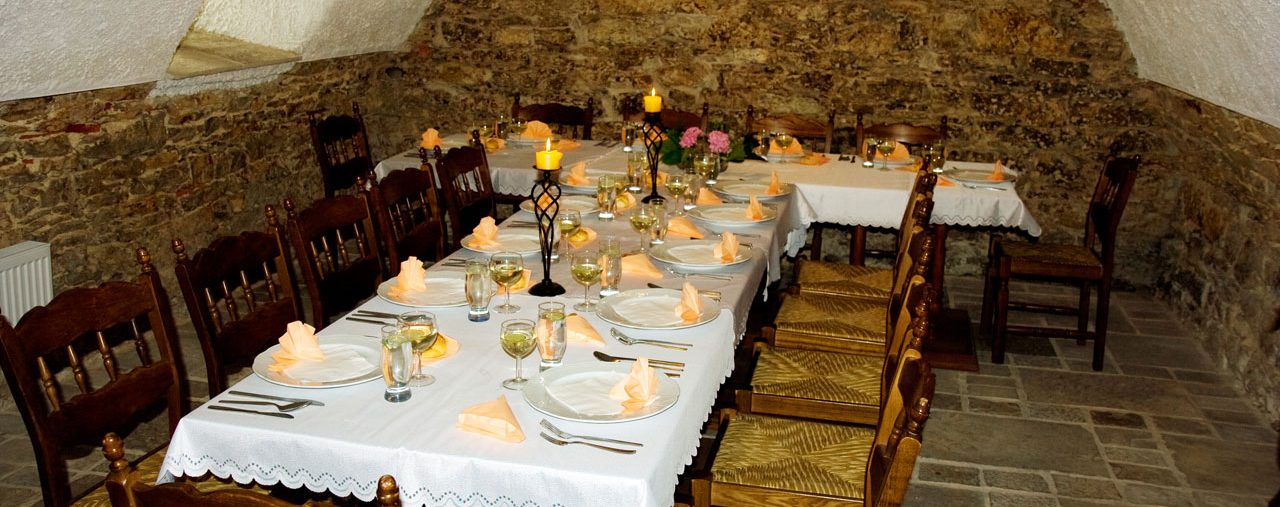
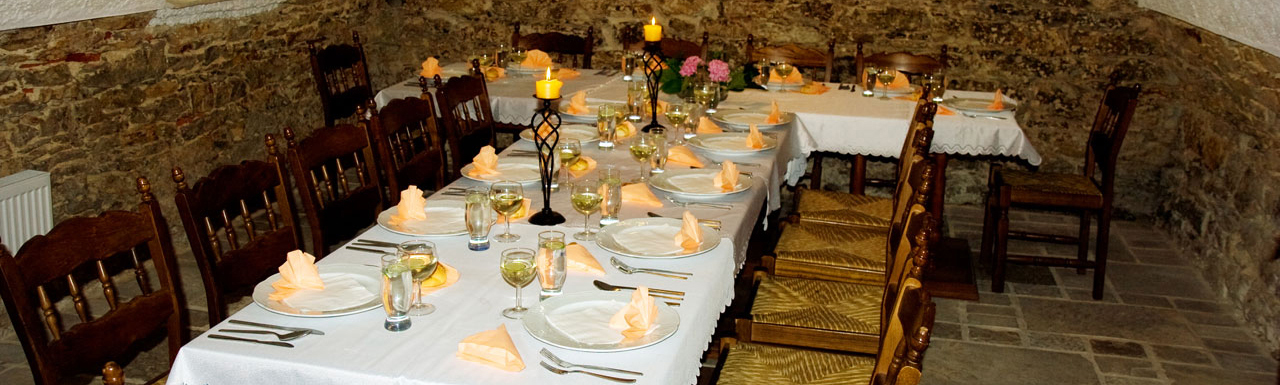
adds revised css and html file

diff --git a/main.css b/main.css
@@ -1,4 +1,8 @@
 
+body {
+	background-image: url("assets/backgrounds/concrete-seamless.png");
+	background-repeat: repeat;
+}
 ul {
 	list-style: none;
 }
@@ -7,25 +11,68 @@ ul {
 	width: 1020px;
 	margin: auto;
 }
+
 #big-picture {
 	width: inherit;
-	height:300px;
+	height:328px;
 	background: lightgrey;
 	margin-bottom: -10;
+	clear: both;
 }
-#top-menu {
 
-	margin: 0 auto;
+#big-picture img {
+	width: 1020px;
+	height: 328px;
 }
+
+#top-menu {
+	margin: 0 auto;
+	text-decoration: none;
+	background-color: black;
+    height: 44px;
+}
+
+
+#ul-top-menu {
+	height: 30px;
+	padding: 0;
+	margin-top: 0px;
+	padding-right: 5px;
+	padding-left: 5px;
+}
+
+
 #top-menu li {
 	display: inline-block;
-	width: 15%;
-	border: 1px solid lightgrey;
-	text-align: center;
-	padding: 20px;
-	margin-left: -5px;
-	margin-top: -16px;
+    width: 15%;
+    text-align: center;
+    padding-left: 20px;
+    padding-top: 10px;
+    text-decoration: none;
+    height: 5%;
+    margin-right: 5px;
+    color: white;
+    font-weight: bold;
 }
+
+
+
+#top-menu a {
+	text-decoration: none;
+	color: white;
+	font-weight: bold;
+}
+
+#top-menu a:hover {
+	text-decoration: none;
+	color: #b90f0f;
+	font-weight: bold;
+}
+
+#top-menu a:hover li {
+	border-top: 3px solid #b90f0f;
+}
+
 #left-corner {
 	border-bottom-left-radius: 8px;
 }
@@ -33,7 +80,8 @@ ul {
 	border-bottom-right-radius: 8px;
 }
 #api-row {
-	width: 1050px;;
+	width: 1050px;
+	padding-top: 10px;
 }
 .api-panel {
 	display: inline-block;
@@ -42,6 +90,11 @@ ul {
 	margin-bottom: 20px;
 	height: 240px;
 	background: lightgrey;
+}
+
+.redAPI {
+	border: 3px solid #b90f0f;
+	border-radius: 5px;
 }
 
 #lower-body {

diff --git a/index.html b/index.html
@@ -11,9 +11,9 @@
 <body>
 
 <div id="wrapper">
-	<div id="big-picture">big picture</div>
+	<div id="big-picture"><img src="assets/restaurantphotos/restaurant_landscape1.jpg"/div>
 		<div id="top-menu">
-			<ul>
+			<ul id="ul-top-menu">
 				<li id="left-corner"><a href="#">Story</a></li>
 				<li><a href="#">Menu</a></li>
 				<li><a href="#">Reservations</a></li>
@@ -22,9 +22,9 @@
 			</ul>
 		</div>
 		<div id="api-row">
-			<div class="api-panel" id="news">news</div>
-			<div class="api-panel" id="special">specials</div>
-			<div class="api-panel" id="map">google map</div>
+			<div class="api-panel" id="news" class="redAPI">news</div>
+			<div class="api-panel" id="special" class="redAPI">specials</div>
+			<div class="api-panel" id="map" class="redAPI">google map</div>
 		</div>
 
 	<div id="lower-body">
